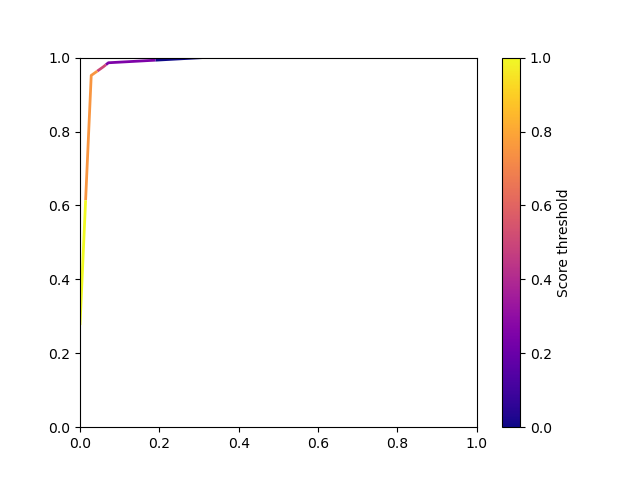
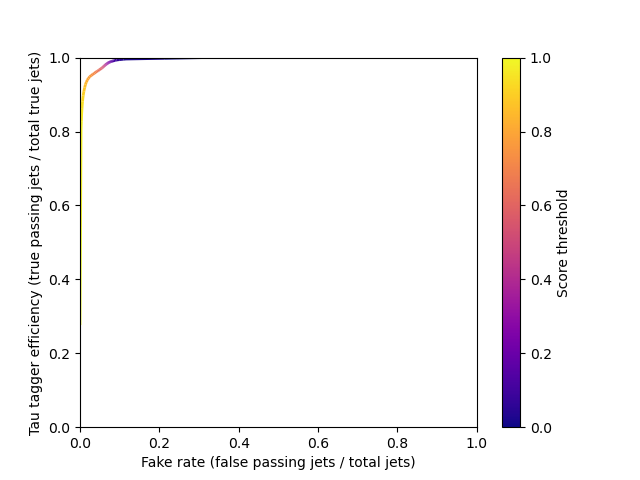
Useful fancy plots

diff --git a/fancy-rocc.py b/fancy-rocc.py
@@ -32,7 +32,7 @@ min_pT = 20
 max_eta = 2.4
 max_dR2 = 0.3**2
 dr_max = 0.4
-inv_res = 4 # inverse resolution, 50 is probably a good value once functionality is confirmed
+inv_res = 50 # inverse resolution, 50 is probably a good value once functionality is confirmed
 
 # Signal processing
 taus = signal_events.GenPart[signal_events.GenVisTau.genPartIdxMother] # hadronically-decaying taus
@@ -158,8 +158,8 @@ roc = colored_line(fake_rates, efficiencies, color, ax, linewidth=2, cmap='plasm
 cbar = fig.colorbar(roc)
 cbar.set_label('Score threshold')
 
-#fig.xlabel('Fake rate (false passing jets / total jets)')
-#fig.ylabel('Tau tagger efficiency (true passing jets / total true jets)')
+plt.xlabel('Fake rate (false passing jets / total jets)')
+plt.ylabel('Tau tagger efficiency (true passing jets / total true jets)')
 
 #plt.grid()
 plt.savefig('fancy-tau-tagger-rocc.pdf')
